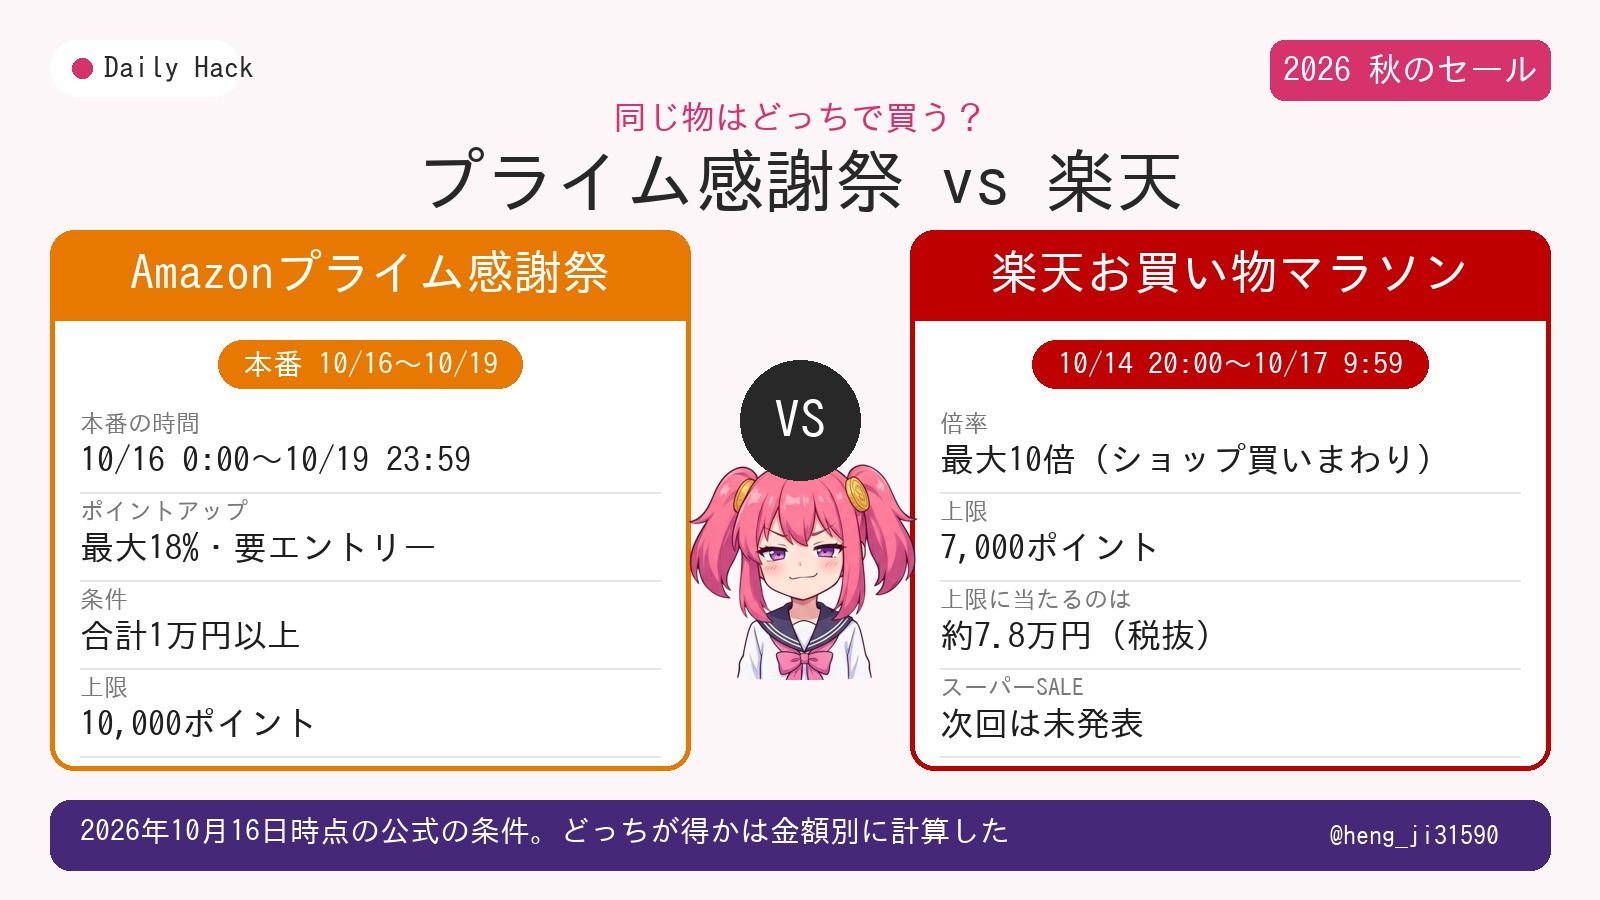
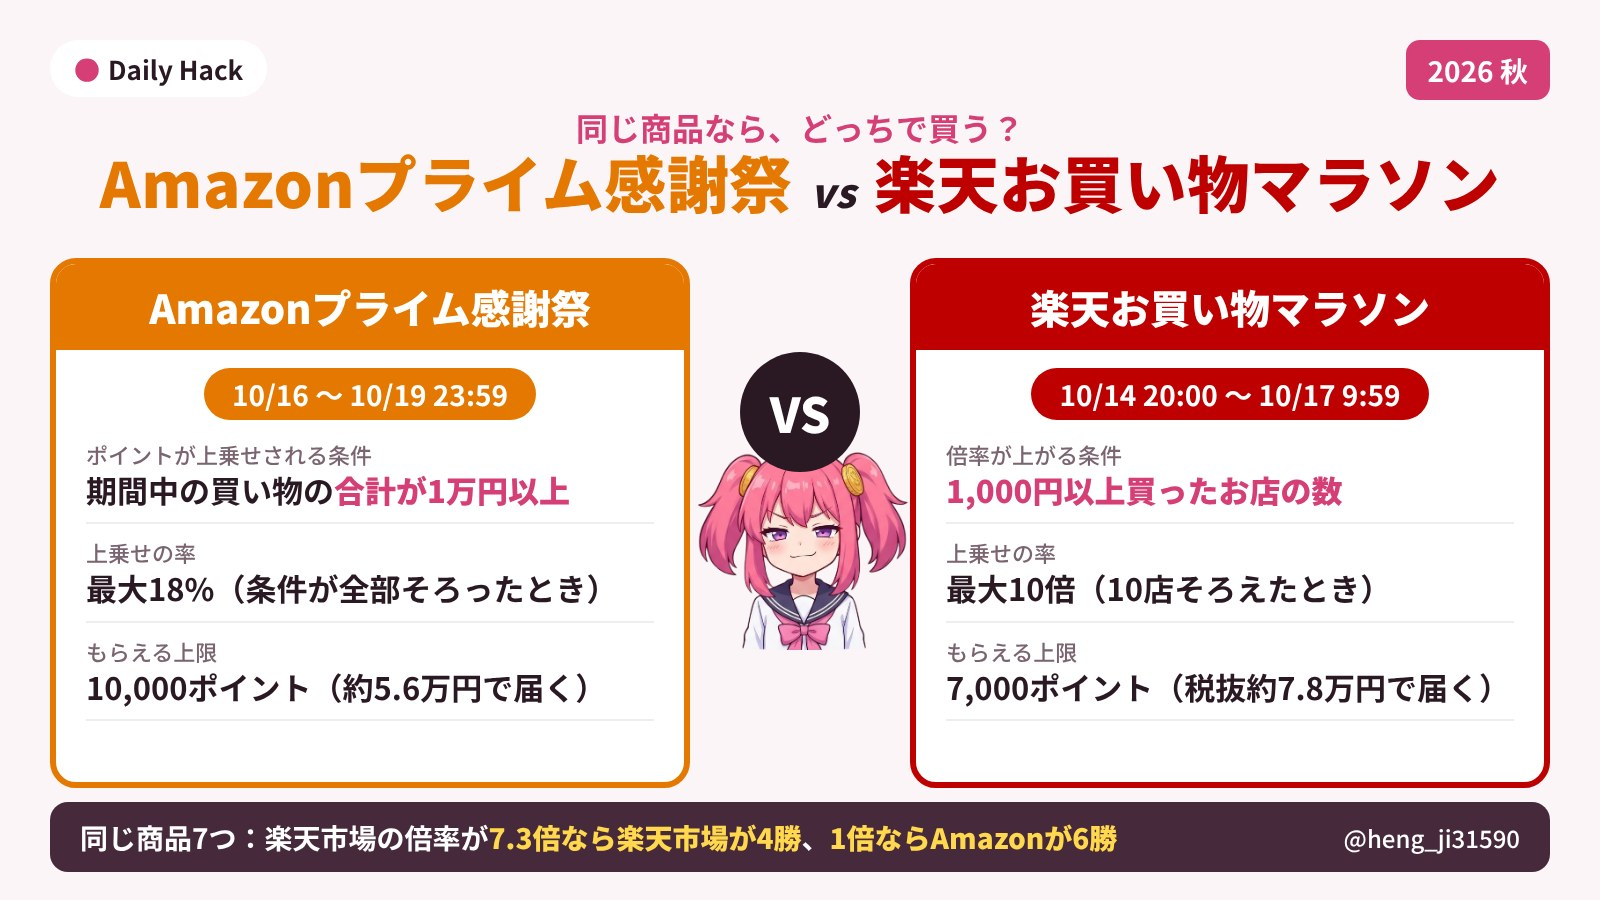
記事: 感謝祭 vs 楽天マラソンの表紙を両イベントの正式名で作り直し／楽天市場のロゴを台湾版から楽天市場アプリの公式アイコンへ
Claude-Session: https://claude.ai/code/session_01H2JQqdMCeKNiMVUTrAyX2t

Changed region(s): [[0.0312, 0.0933, 0.9688, 0.9956], [0.7812, 0.0311, 0.9688, 0.1244], [0.0312, 0.0622, 0.1562, 0.0933]]

diff --git a/ops/data/eyecatch/prime-sale-vs-rakuten-autumn-2026.html b/ops/data/eyecatch/prime-sale-vs-rakuten-autumn-2026.html
@@ -1,0 +1,32 @@
+<!doctype html><html><head><meta charset="utf-8"><style>
+*{box-sizing:border-box;margin:0}body{width:1600px;height:900px;background:#FBF5F7;font-family:"Noto Sans JP";color:#2A1923;position:relative;overflow:hidden}
+.brand{position:absolute;left:50px;top:40px;background:#fff;border-radius:30px;padding:10px 24px;font-weight:700;font-size:26px}.brand:before{content:"●";color:#D63E76;margin-right:8px}
+.tag{position:absolute;right:50px;top:40px;background:#D63E76;color:#fff;border-radius:14px;padding:10px 22px;font-weight:700;font-size:28px}
+.k{position:absolute;top:104px;width:100%;text-align:center;color:#D63E76;font-weight:700;font-size:32px}
+h1{position:absolute;top:146px;width:100%;text-align:center;font-weight:900;font-size:62px;letter-spacing:.01em;line-height:1.15}
+h1 .a{color:#E47800}h1 .r{color:#BF0000}h1 .v{font-size:40px;color:#2A1923;margin:0 18px;font-style:italic}
+.card{position:absolute;top:258px;width:640px;height:530px;background:#fff;border-radius:26px;border:6px solid;overflow:hidden}
+.card.am{left:50px;border-color:#E47800}.card.rk{right:50px;border-color:#BF0000}
+.card .hd{color:#fff;font-weight:900;font-size:40px;text-align:center;padding:14px 0}.am .hd{background:#E47800}.rk .hd{background:#BF0000}
+.pill{display:block;width:max-content;margin:18px auto 6px;color:#fff;border-radius:30px;padding:6px 28px;font-weight:700;font-size:28px}.am .pill{background:#E47800}.rk .pill{background:#BF0000}
+.row{margin:0 30px;padding:12px 0;border-bottom:2px solid #eee}.row .l{font-size:22px;color:#7a6470;font-weight:500}.row .v{font-size:31px;font-weight:700;line-height:1.3}
+.row .v b{color:#D63E76}
+.vs{position:absolute;left:740px;top:352px;width:120px;height:120px;border-radius:50%;background:#2A1923;color:#fff;font-weight:900;font-size:48px;display:flex;align-items:center;justify-content:center;z-index:2}
+.m{position:absolute;left:690px;top:430px;width:220px;z-index:1}
+.ft{position:absolute;left:50px;right:50px;bottom:28px;height:70px;background:#46293A;color:#fff;border-radius:18px;display:flex;align-items:center;justify-content:space-between;padding:0 30px;font-weight:700;font-size:28px}
+.ft b{color:#FFD84D}.ft span{font-size:24px;font-weight:500}
+</style></head><body>
+<div class="brand">Daily Hack</div><div class="tag">2026 秋</div>
+<div class="k">同じ商品なら、どっちで買う？</div>
+<h1><span class="a">Amazonプライム感謝祭</span><span class="v">vs</span><span class="r">楽天お買い物マラソン</span></h1>
+<div class="card am"><div class="hd">Amazonプライム感謝祭</div><span class="pill">10/16 〜 10/19 23:59</span>
+<div class="row"><div class="l">ポイントが上乗せされる条件</div><div class="v">期間中の買い物の<b>合計が1万円以上</b></div></div>
+<div class="row"><div class="l">上乗せの率</div><div class="v">最大18%（条件が全部そろったとき）</div></div>
+<div class="row"><div class="l">もらえる上限</div><div class="v">10,000ポイント（約5.6万円で届く）</div></div></div>
+<div class="card rk"><div class="hd">楽天お買い物マラソン</div><span class="pill">10/14 20:00 〜 10/17 9:59</span>
+<div class="row"><div class="l">倍率が上がる条件</div><div class="v"><b>1,000円以上買ったお店の数</b></div></div>
+<div class="row"><div class="l">上乗せの率</div><div class="v">最大10倍（10店そろえたとき）</div></div>
+<div class="row"><div class="l">もらえる上限</div><div class="v">7,000ポイント（税抜約7.8万円で届く）</div></div></div>
+<div class="vs">VS</div><img class="m" src="../../../public/images/expr-05-smug.png">
+<div class="ft"><div>同じ商品7つ：楽天市場の倍率が<b>7.3倍なら楽天市場が4勝</b>、<b>1倍ならAmazonが6勝</b></div><span>@heng_ji31590</span></div>
+</body></html>

diff --git a/src/content/posts/prime-sale-vs-rakuten-autumn-2026.md b/src/content/posts/prime-sale-vs-rakuten-autumn-2026.md
@@ -7,7 +7,7 @@ tags: ["Amazonプライム感謝祭", "プライム感謝祭2026", "楽天お買
 isPR: true
 draft: false
 eyecatchUrl: "/images/prime-sale-vs-rakuten-autumn-2026/eyecatch.jpg"
-eyecatchAlt: "Amazonプライム感謝祭2026と楽天お買い物マラソン、同じ物はどっちで買うかの判断表"
+eyecatchAlt: "Amazonプライム感謝祭 vs 楽天お買い物マラソン（2026秋）。ポイントが増える条件・上乗せの率・もらえる上限の比較"
 author: "hacker-ko"
 references:
   - "https://www.aboutamazon.jp/news/amazon-prime/prime-appreciation-sale-2026"
@@ -39,7 +39,7 @@ references:
   <table class="cmp-table wrap-table">
     <thead><tr><th>イベント</th><th>期間</th><th>ポイントが増える条件</th><th>もらえる上限</th></tr></thead>
     <tbody>
-      <tr class="recommended"><td><span class="cell-brand"><img class="brand-logo-sm" src="/images/prime-sale-vs-rakuten-autumn-2026/logos/rakutenichiba.png" alt="" loading="lazy" /><a href="https://hb.afl.rakuten.co.jp/hgc/587f2635.77bb335f.587f2636.e34c8733/?pc=https%3A%2F%2Fevent.rakuten.co.jp%2Fcampaign%2Fpoint-up%2Fmarathon%2F&m=https%3A%2F%2Fevent.rakuten.co.jp%2Fcampaign%2Fpoint-up%2Fmarathon%2F" target="_blank" rel="sponsored noopener nofollow">楽天お買い物マラソン</a></span></td><td>10月14日（水）20:00〜<strong>10月17日（土）9:59</strong></td><td>エントリーして、1店で1,000円（税込）以上買ったお店の数が増えるほど倍率が上がる。10店で最大10倍</td><td><strong>7,000ポイント</strong></td></tr>
+      <tr class="recommended"><td><span class="cell-brand"><img class="brand-logo-sm" src="/images/prime-sale-vs-rakuten-autumn-2026/logos/rakutenichiba-app.jpg" alt="" loading="lazy" /><a href="https://hb.afl.rakuten.co.jp/hgc/587f2635.77bb335f.587f2636.e34c8733/?pc=https%3A%2F%2Fevent.rakuten.co.jp%2Fcampaign%2Fpoint-up%2Fmarathon%2F&m=https%3A%2F%2Fevent.rakuten.co.jp%2Fcampaign%2Fpoint-up%2Fmarathon%2F" target="_blank" rel="sponsored noopener nofollow">楽天お買い物マラソン</a></span></td><td>10月14日（水）20:00〜<strong>10月17日（土）9:59</strong></td><td>エントリーして、1店で1,000円（税込）以上買ったお店の数が増えるほど倍率が上がる。10店で最大10倍</td><td><strong>7,000ポイント</strong></td></tr>
       <tr class="recommended"><td><span class="cell-brand"><img class="brand-logo-sm" src="/images/prime-sale-vs-rakuten-autumn-2026/logos/amazon.png" alt="" loading="lazy" /><a href="https://www.amazon.co.jp/events/pointupcampaign/" target="_blank" rel="noopener">Amazonプライム感謝祭</a></span></td><td>10月16日（金）〜<strong>10月19日（月）23:59</strong></td><td>エントリーして、期間中の買い物の合計が10,000円（税込）以上になると、対象の商品にポイントが上乗せされる。条件が全部そろうと最大18%</td><td><strong>10,000ポイント</strong></td></tr>
       <tr><td><span class="cell-brand"><img class="brand-logo-sm" src="/images/prime-sale-vs-rakuten-autumn-2026/logos/rakutencard.png" alt="" loading="lazy" /><a href="https://hb.afl.rakuten.co.jp/hgc/587f2635.77bb335f.587f2636.e34c8733/?pc=https%3A%2F%2Fevent.rakuten.co.jp%2Fcampaign%2Fcard%2Fpointday%2F&m=https%3A%2F%2Fevent.rakuten.co.jp%2Fcampaign%2Fcard%2Fpointday%2F" target="_blank" rel="sponsored noopener nofollow">楽天 5と0のつく日</a></span></td><td><strong>10月20日（火）</strong></td><td>エントリーして楽天カードで払うと、ポイントが+3倍になる</td><td>1,000ポイント</td></tr>
     </tbody>
@@ -55,7 +55,7 @@ references:
   <h2 id="楽天マラソン">楽天お買い物マラソン｜10月14日〜17日・上限7,000ポイント</h2>
 </div>
 
-<h3 class="brand-h" id="楽天お買い物マラソンの条件"><img class="brand-logo" src="/images/prime-sale-vs-rakuten-autumn-2026/logos/rakutenichiba.png" alt="楽天市場のロゴ" loading="lazy" /><span>楽天お買い物マラソンの条件｜買ったお店の数で倍率が上がる</span></h3>
+<h3 class="brand-h" id="楽天お買い物マラソンの条件"><img class="brand-logo" src="/images/prime-sale-vs-rakuten-autumn-2026/logos/rakutenichiba-app.jpg" alt="楽天市場のロゴ" loading="lazy" /><span>楽天お買い物マラソンの条件｜買ったお店の数で倍率が上がる</span></h3>
 
 **楽天お買い物マラソンは、1,000円以上買ったお店の数が多いほど、ポイントの倍率が上がるイベント**。2026年秋の期間は10月14日（水）20:00〜10月17日（土）9:59で、エントリーも同じ時刻まで受け付けていた。
 
@@ -140,7 +140,7 @@ references:
 
 <div class="cmp-table-wrap">
   <table class="cmp-table wrap-table">
-    <thead><tr><th>項目</th><th><span class="cell-brand"><img class="brand-logo-sm" src="/images/prime-sale-vs-rakuten-autumn-2026/logos/amazon.png" alt="" loading="lazy" /><a href="https://www.amazon.co.jp/events/pointupcampaign/" target="_blank" rel="noopener">Amazonプライム感謝祭</a></span></th><th><span class="cell-brand"><img class="brand-logo-sm" src="/images/prime-sale-vs-rakuten-autumn-2026/logos/rakutenichiba.png" alt="" loading="lazy" /><a href="https://hb.afl.rakuten.co.jp/hgc/587f2635.77bb335f.587f2636.e34c8733/?pc=https%3A%2F%2Fevent.rakuten.co.jp%2Fcampaign%2Fpoint-up%2Fmarathon%2F&m=https%3A%2F%2Fevent.rakuten.co.jp%2Fcampaign%2Fpoint-up%2Fmarathon%2F" target="_blank" rel="sponsored noopener nofollow">楽天お買い物マラソン</a></span></th></tr></thead>
+    <thead><tr><th>項目</th><th><span class="cell-brand"><img class="brand-logo-sm" src="/images/prime-sale-vs-rakuten-autumn-2026/logos/amazon.png" alt="" loading="lazy" /><a href="https://www.amazon.co.jp/events/pointupcampaign/" target="_blank" rel="noopener">Amazonプライム感謝祭</a></span></th><th><span class="cell-brand"><img class="brand-logo-sm" src="/images/prime-sale-vs-rakuten-autumn-2026/logos/rakutenichiba-app.jpg" alt="" loading="lazy" /><a href="https://hb.afl.rakuten.co.jp/hgc/587f2635.77bb335f.587f2636.e34c8733/?pc=https%3A%2F%2Fevent.rakuten.co.jp%2Fcampaign%2Fpoint-up%2Fmarathon%2F&m=https%3A%2F%2Fevent.rakuten.co.jp%2Fcampaign%2Fpoint-up%2Fmarathon%2F" target="_blank" rel="sponsored noopener nofollow">楽天お買い物マラソン</a></span></th></tr></thead>
     <tbody>
       <tr><td>参加</td><td>エントリーが必要</td><td>エントリーが必要（期間中にエントリーすれば、その前の買い物も数える）</td></tr>
       <tr class="recommended"><td>ポイントが増える条件</td><td><strong>期間中の買い物の合計が10,000円（税込）以上</strong></td><td><strong>1,000円（税込）以上買ったお店の数</strong>が増えるほど倍率が上がる</td></tr>
@@ -233,7 +233,7 @@ references:
 
 <div class="cmp-table-wrap">
   <table class="cmp-table wrap-table">
-    <thead><tr><th>商品</th><th><span class="cell-brand"><img class="brand-logo-sm" src="/images/prime-sale-vs-rakuten-autumn-2026/logos/amazon.png" alt="" loading="lazy" />Amazon</span></th><th><span class="cell-brand"><img class="brand-logo-sm" src="/images/prime-sale-vs-rakuten-autumn-2026/logos/rakutenichiba.png" alt="" loading="lazy" />楽天市場<br>倍率7.3倍の人</span></th><th><span class="cell-brand"><img class="brand-logo-sm" src="/images/prime-sale-vs-rakuten-autumn-2026/logos/rakutenichiba.png" alt="" loading="lazy" />楽天市場<br>倍率1倍の人</span></th></tr></thead>
+    <thead><tr><th>商品</th><th><span class="cell-brand"><img class="brand-logo-sm" src="/images/prime-sale-vs-rakuten-autumn-2026/logos/amazon.png" alt="" loading="lazy" />Amazon</span></th><th><span class="cell-brand"><img class="brand-logo-sm" src="/images/prime-sale-vs-rakuten-autumn-2026/logos/rakutenichiba-app.jpg" alt="" loading="lazy" />楽天市場<br>倍率7.3倍の人</span></th><th><span class="cell-brand"><img class="brand-logo-sm" src="/images/prime-sale-vs-rakuten-autumn-2026/logos/rakutenichiba-app.jpg" alt="" loading="lazy" />楽天市場<br>倍率1倍の人</span></th></tr></thead>
     <tbody>
       <tr><td><strong>モバイルバッテリー</strong><br>Anker Power Bank（20000mAh, 30W）</td><td><a href="https://www.amazon.co.jp/s?k=Anker%20Power%20Bank%2020000mAh%2030W" target="_blank" rel="noopener">4,742円<br><small>4,790円−48pt</small></a></td><td><a href="https://hb.afl.rakuten.co.jp/hgc/587f2635.77bb335f.587f2636.e34c8733/?pc=https%3A%2F%2Fsearch.rakuten.co.jp%2Fsearch%2Fmall%2FAnker%2520Power%2520Bank%252020000mAh%252030W%2F&m=https%3A%2F%2Fsearch.rakuten.co.jp%2Fsearch%2Fmall%2FAnker%2520Power%2520Bank%252020000mAh%252030W%2F" target="_blank" rel="sponsored noopener nofollow">6,525円<br><small>6,990円−465pt</small></a></td><td>6,926円<br><small>6,990円−64pt</small></td></tr>
       <tr><td><strong>ヘッドホン</strong><br>ソニー WH-1000XM5</td><td><a href="https://www.amazon.co.jp/s?k=WH-1000XM5" target="_blank" rel="noopener">34,551円<br><small>34,900円−349pt</small></a></td><td><a href="https://hb.afl.rakuten.co.jp/hgc/587f2635.77bb335f.587f2636.e34c8733/?pc=https%3A%2F%2Fsearch.rakuten.co.jp%2Fsearch%2Fmall%2FWH-1000XM5%2F&m=https%3A%2F%2Fsearch.rakuten.co.jp%2Fsearch%2Fmall%2FWH-1000XM5%2F" target="_blank" rel="sponsored noopener nofollow"><strong>31,423円</strong><br><small>33,686円−2,263pt</small></a></td><td><strong>33,376円</strong><br><small>33,686円−310pt</small></td></tr>
@@ -276,9 +276,9 @@ references:
     <thead><tr><th>こういう買い方なら</th><th>買う場所</th><th>理由</th></tr></thead>
     <tbody>
       <tr class="recommended"><td><strong>1万円以上の物を1つだけ買う</strong></td><td><span class="cell-brand"><img class="brand-logo-sm" src="/images/prime-sale-vs-rakuten-autumn-2026/logos/amazon.png" alt="" loading="lazy" /><a href="https://www.amazon.co.jp/" target="_blank" rel="noopener">Amazon</a></span></td><td>1つの買い物で「合計1万円以上」の条件を満たせる。楽天市場では1店だけの買い物になり、お店の数による上乗せが付かない</td></tr>
-      <tr class="recommended"><td><strong>1,000円以上の物を、別々のお店で何点も買う</strong></td><td><span class="cell-brand"><img class="brand-logo-sm" src="/images/prime-sale-vs-rakuten-autumn-2026/logos/rakutenichiba.png" alt="" loading="lazy" /><a href="https://hb.afl.rakuten.co.jp/hgc/587f2635.77bb335f.587f2636.e34c8733/?pc=https%3A%2F%2Fwww.rakuten.co.jp%2F&m=https%3A%2F%2Fwww.rakuten.co.jp%2F" target="_blank" rel="sponsored noopener nofollow">楽天市場</a></span></td><td>買ったお店の数が増えるほど倍率が上がる。10店で上乗せが+9倍</td></tr>
-      <tr><td>買い物の合計が1万円に届かない</td><td><span class="cell-brand"><img class="brand-logo-sm" src="/images/prime-sale-vs-rakuten-autumn-2026/logos/rakutenichiba.png" alt="" loading="lazy" /><a href="https://hb.afl.rakuten.co.jp/hgc/587f2635.77bb335f.587f2636.e34c8733/?pc=https%3A%2F%2Fwww.rakuten.co.jp%2F&m=https%3A%2F%2Fwww.rakuten.co.jp%2F" target="_blank" rel="sponsored noopener nofollow">楽天市場</a></span></td><td>Amazonは合計1万円未満だと上乗せが付かない。楽天市場は2店から上乗せが付く</td></tr>
-      <tr><td>楽天カードや楽天モバイルを使っていて、楽天市場の倍率が高い</td><td><span class="cell-brand"><img class="brand-logo-sm" src="/images/prime-sale-vs-rakuten-autumn-2026/logos/rakutenichiba.png" alt="" loading="lazy" /><a href="https://hb.afl.rakuten.co.jp/hgc/587f2635.77bb335f.587f2636.e34c8733/?pc=https%3A%2F%2Fevent.rakuten.co.jp%2Fcampaign%2Fpoint-up%2Feveryday%2Fpoint%2F&m=https%3A%2F%2Fevent.rakuten.co.jp%2Fcampaign%2Fpoint-up%2Feveryday%2Fpoint%2F" target="_blank" rel="sponsored noopener nofollow">楽天市場</a></span></td><td>SPU（最大18.5倍）がお店の数の上乗せとは別に付く。7商品の買い比べでも、7.3倍の人は楽天市場が4勝</td></tr>
+      <tr class="recommended"><td><strong>1,000円以上の物を、別々のお店で何点も買う</strong></td><td><span class="cell-brand"><img class="brand-logo-sm" src="/images/prime-sale-vs-rakuten-autumn-2026/logos/rakutenichiba-app.jpg" alt="" loading="lazy" /><a href="https://hb.afl.rakuten.co.jp/hgc/587f2635.77bb335f.587f2636.e34c8733/?pc=https%3A%2F%2Fwww.rakuten.co.jp%2F&m=https%3A%2F%2Fwww.rakuten.co.jp%2F" target="_blank" rel="sponsored noopener nofollow">楽天市場</a></span></td><td>買ったお店の数が増えるほど倍率が上がる。10店で上乗せが+9倍</td></tr>
+      <tr><td>買い物の合計が1万円に届かない</td><td><span class="cell-brand"><img class="brand-logo-sm" src="/images/prime-sale-vs-rakuten-autumn-2026/logos/rakutenichiba-app.jpg" alt="" loading="lazy" /><a href="https://hb.afl.rakuten.co.jp/hgc/587f2635.77bb335f.587f2636.e34c8733/?pc=https%3A%2F%2Fwww.rakuten.co.jp%2F&m=https%3A%2F%2Fwww.rakuten.co.jp%2F" target="_blank" rel="sponsored noopener nofollow">楽天市場</a></span></td><td>Amazonは合計1万円未満だと上乗せが付かない。楽天市場は2店から上乗せが付く</td></tr>
+      <tr><td>楽天カードや楽天モバイルを使っていて、楽天市場の倍率が高い</td><td><span class="cell-brand"><img class="brand-logo-sm" src="/images/prime-sale-vs-rakuten-autumn-2026/logos/rakutenichiba-app.jpg" alt="" loading="lazy" /><a href="https://hb.afl.rakuten.co.jp/hgc/587f2635.77bb335f.587f2636.e34c8733/?pc=https%3A%2F%2Fevent.rakuten.co.jp%2Fcampaign%2Fpoint-up%2Feveryday%2Fpoint%2F&m=https%3A%2F%2Fevent.rakuten.co.jp%2Fcampaign%2Fpoint-up%2Feveryday%2Fpoint%2F" target="_blank" rel="sponsored noopener nofollow">楽天市場</a></span></td><td>SPU（最大18.5倍）がお店の数の上乗せとは別に付く。7商品の買い比べでも、7.3倍の人は楽天市場が4勝</td></tr>
       <tr><td>楽天のサービスを使っておらず、楽天市場の倍率が低い</td><td><span class="cell-brand"><img class="brand-logo-sm" src="/images/prime-sale-vs-rakuten-autumn-2026/logos/amazon.png" alt="" loading="lazy" /><a href="https://www.amazon.co.jp/" target="_blank" rel="noopener">Amazon</a></span></td><td>7商品の買い比べで、1倍の人はAmazonが6勝</td></tr>
       <tr><td>Amazonのブランドセレクションの商品を、Amazon Mastercardで払う</td><td><span class="cell-brand"><img class="brand-logo-sm" src="/images/prime-sale-vs-rakuten-autumn-2026/logos/amazon.png" alt="" loading="lazy" /><a href="https://www.amazon.co.jp/events/pointupcampaign/" target="_blank" rel="noopener">Amazon</a></span></td><td>上乗せが最大18%になる条件がそろう</td></tr>
       <tr><td>10月18日・19日に買う</td><td><span class="cell-brand"><img class="brand-logo-sm" src="/images/prime-sale-vs-rakuten-autumn-2026/logos/amazon.png" alt="" loading="lazy" /><a href="https://www.amazon.co.jp/" target="_blank" rel="noopener">Amazon</a></span>（19日23:59まで）</td><td>楽天お買い物マラソンの期間は10月17日9:59まで。楽天市場で次にポイントが上がるのは10月20日の5と0のつく日</td></tr>
